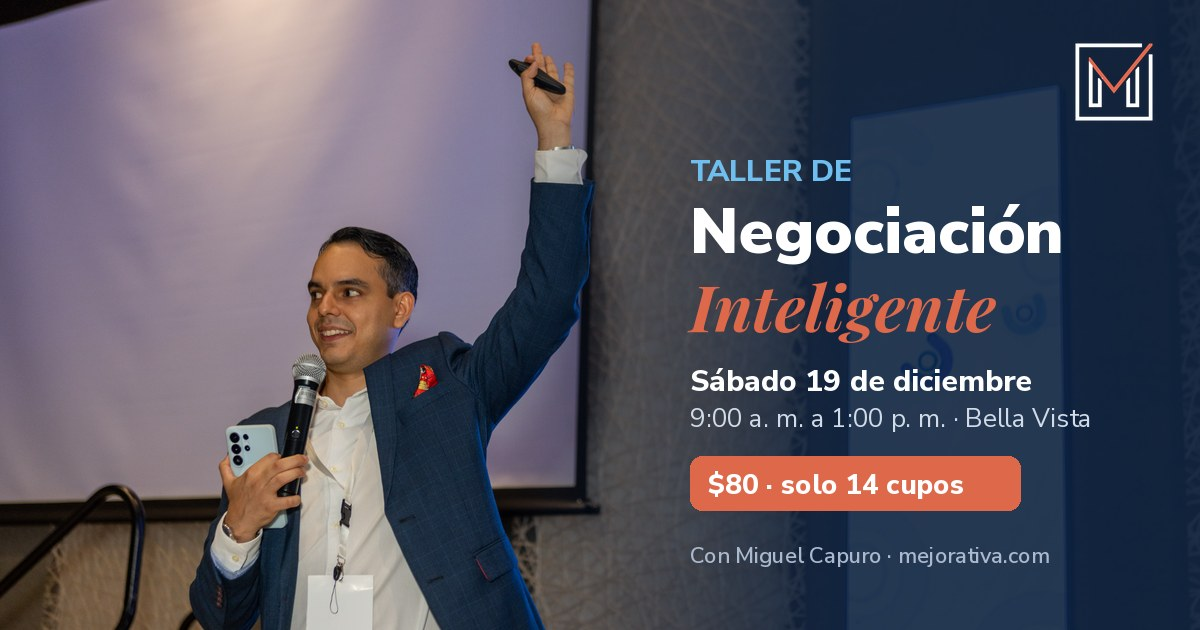
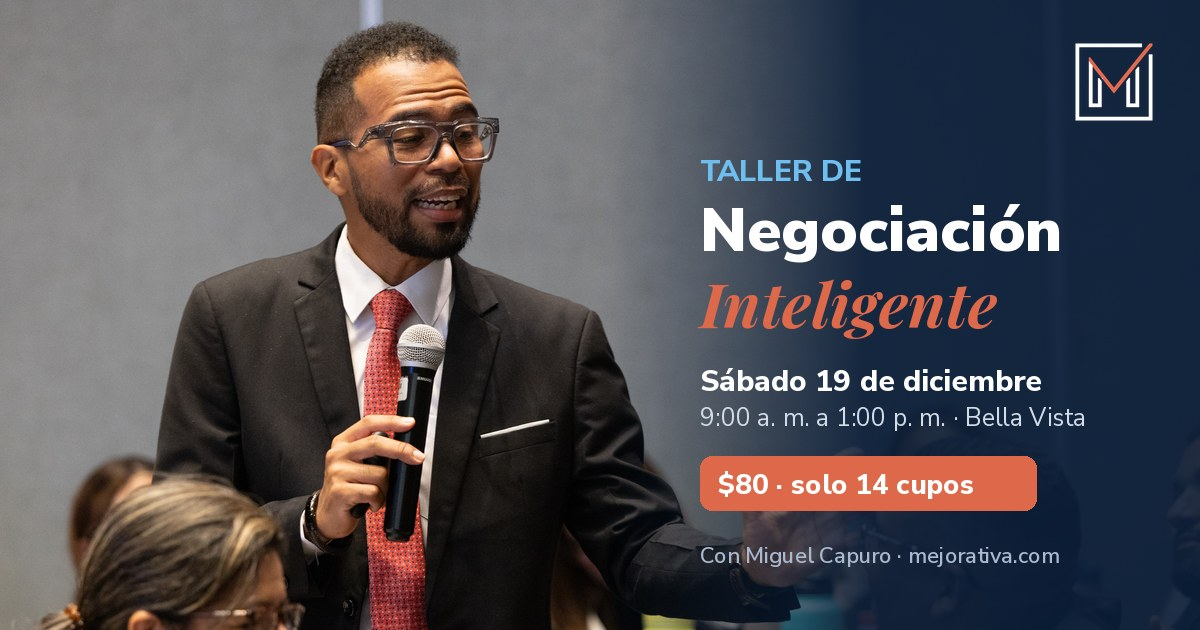
Imagen para compartir: foto de Miguel (88) en lugar de la 124
Claude-Session: https://claude.ai/code/session_01UKeM7jbSvi6HztvbdKCrpU

diff --git a/taller-negociacion/index.html b/taller-negociacion/index.html
@@ -16,7 +16,7 @@
 <meta property="og:image" content="https://mejorativa.com/img/og-taller-negociacion.jpg">
 <meta property="og:image:width" content="1200">
 <meta property="og:image:height" content="630">
-<meta property="og:image:alt" content="Miguel Capuro facilitando en escenario. Taller de Negociación Inteligente, sábado 19 de diciembre, $80.">
+<meta property="og:image:alt" content="Miguel Capuro facilitando con participantes. Taller de Negociación Inteligente, sábado 19 de diciembre, $80.">
 <meta name="twitter:card" content="summary_large_image">
 <link rel="icon" type="image/png" sizes="48x48" href="../img/favicon-48.png">
 <link rel="icon" type="image/png" sizes="512x512" href="../img/favicon.png">
